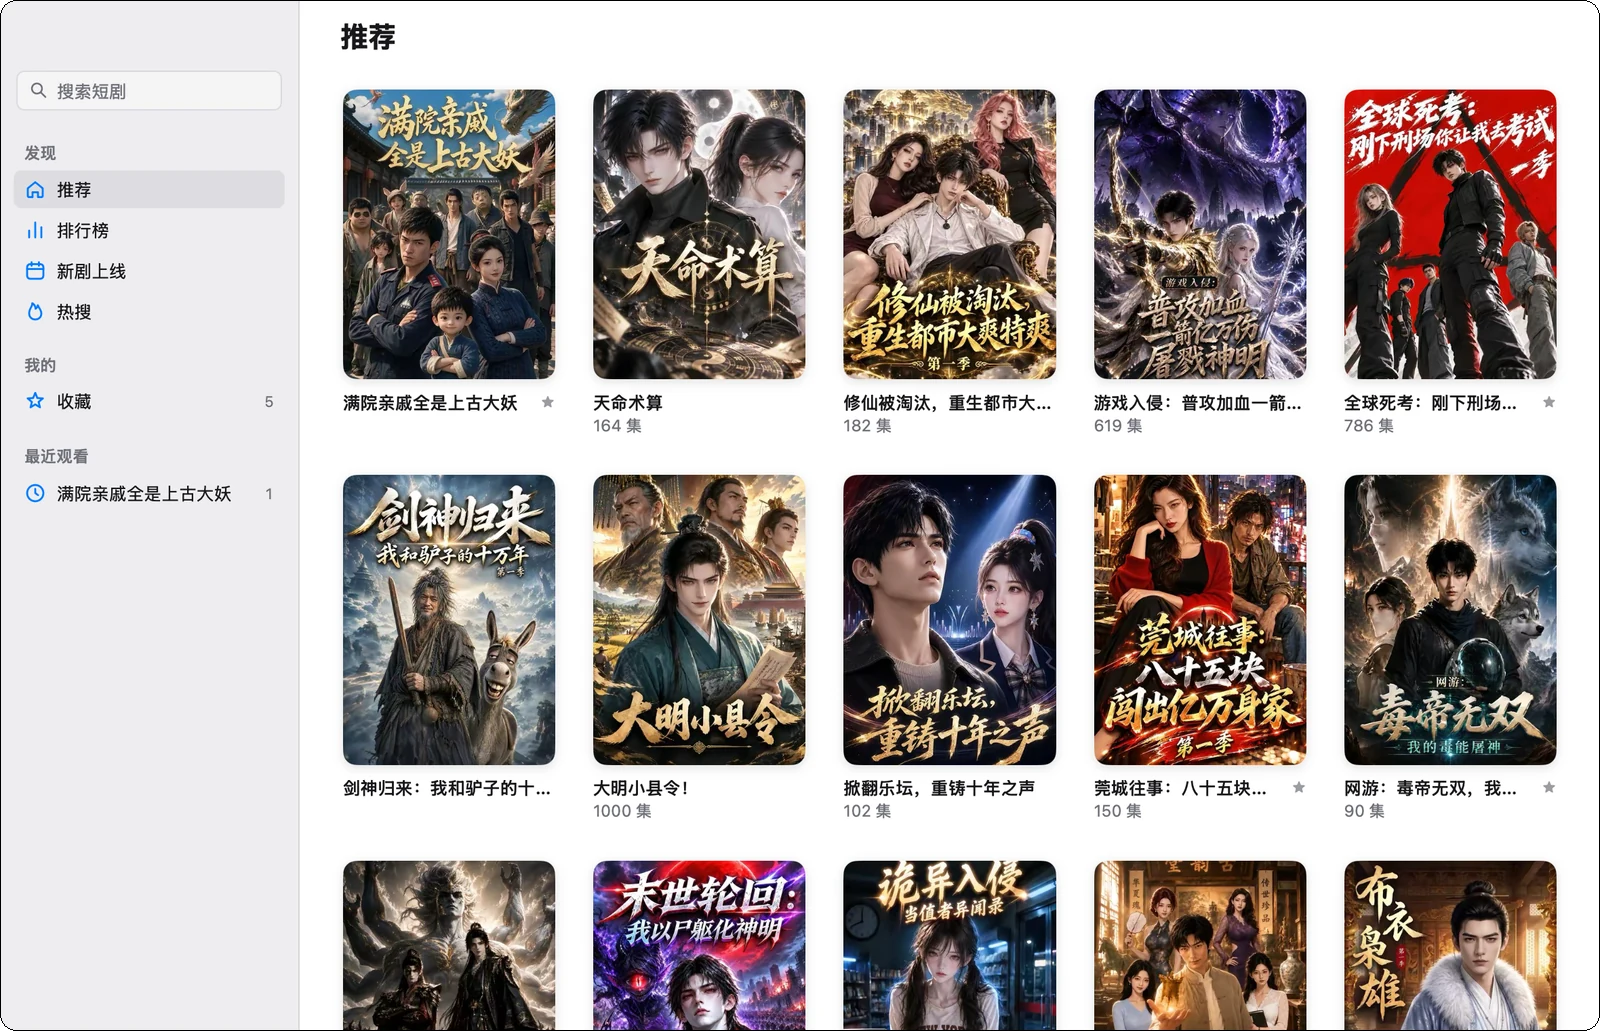
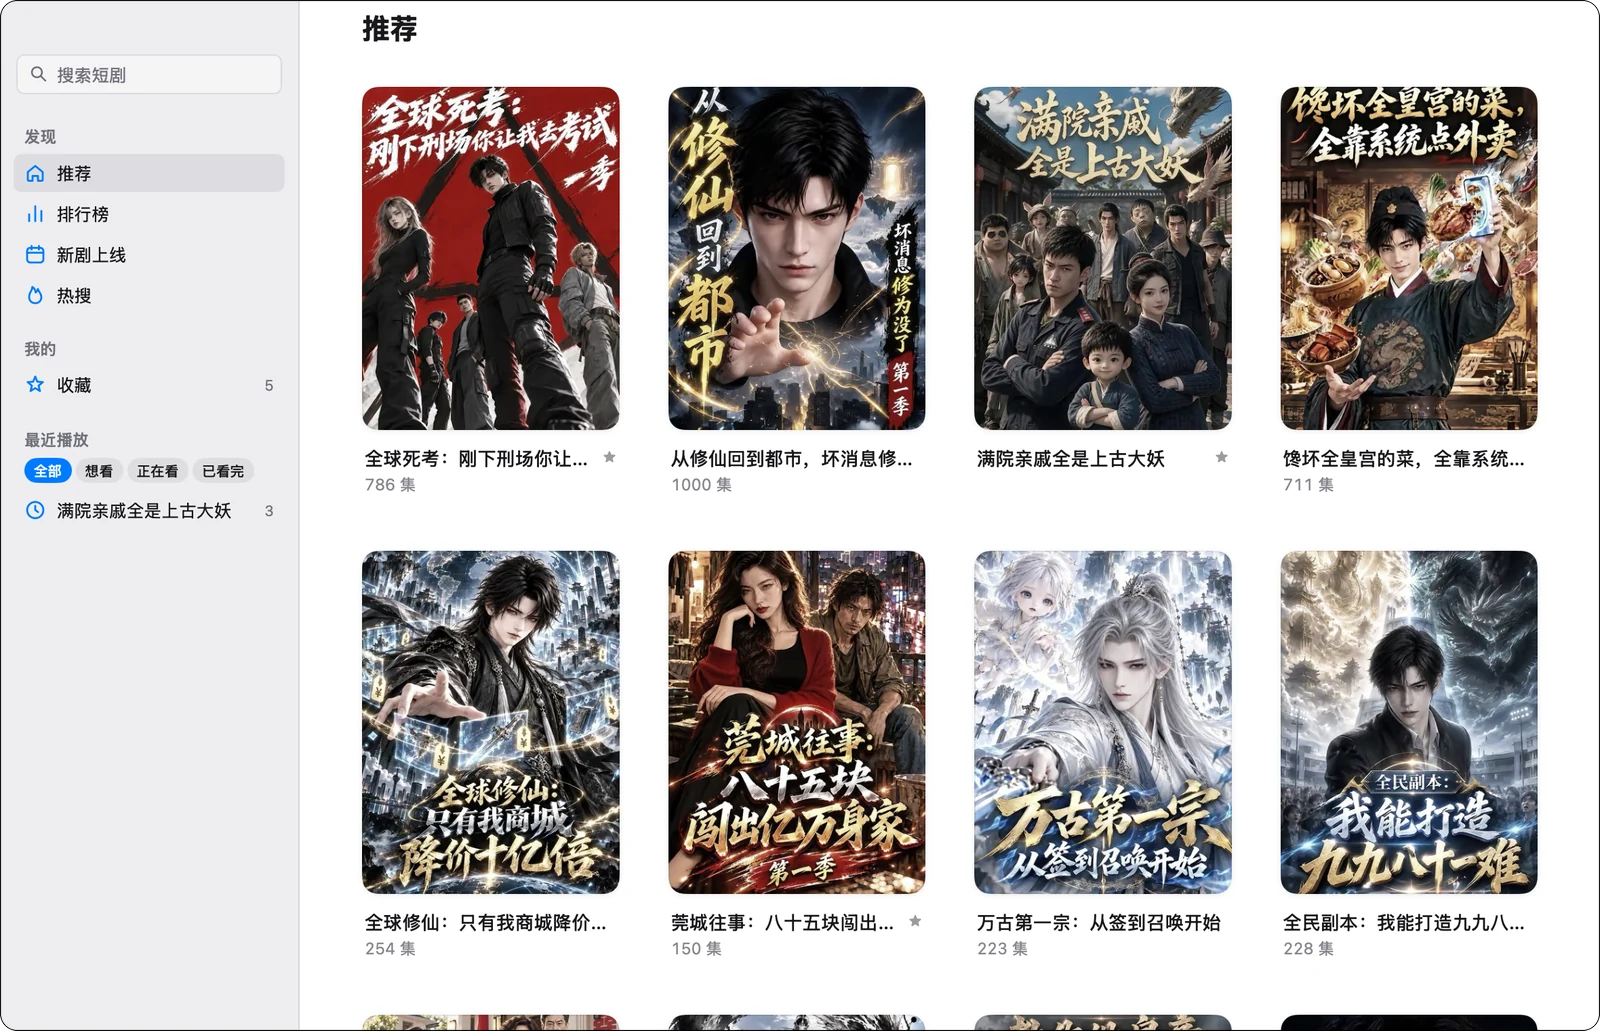
列表页：海报更大、留白更多，封面降饱和
- 海报最窄 176pt，间距、页边距和行距都加宽；默认窗口 4 列，宽屏 6 列，一屏不再挤满
- 封面平时盖一层半透明灰度副本，降低约四成饱和度；鼠标移上去恢复原色并轻轻浮起
- 标题改为 14pt 中等字重，副标题更淡；海报加一圈细描边
- 热搜榜的卡片改用和其他列表相同的尺寸
- 更新 README 截图

封面普遍颜色浓、构图满，一屏铺满时显得廉价，所以用更少、更大的卡片和更安静的颜色。

diff --git a/view.go b/view.go
@@ -14,10 +14,43 @@ import (
 )
 
 const (
-	gridPadX   = 22  // the grid's margin, outside its cells' own
-	cellPadX   = 8   // room on each side of a poster in its cell
-	posterMinW = 150 // the narrowest a cell gets
+	gridPadX   = 32  // the grid's margin, outside its cells' own
+	cellBorder = 2   // the clear border GridView keeps around each cell
+	cellPadX   = 12  // room on each side of a poster in its cell
+	posterMinW = 176 // the narrowest a poster gets
+	cellMinW   = posterMinW + 2*(cellBorder+cellPadX)
+	// posterInset is where the first column's posters start, which the
+	// page's title and controls line up with.
+	posterInset = gridPadX + cellBorder + cellPadX
+
+	// The room in a card above its poster, between the poster and the
+	// lines about it, and under those lines, which keeps the rows apart.
+	cardPadTop    = 6
+	cardTitleGap  = 12
+	cardPadBottom = 18
+	// coverMute is how much of a poster's color gives way to gray until
+	// the pointer comes: the covers are loud, and a wall of them more so.
+	coverMute = 0.4
 )
+
+// gridMetrics is how a grid of cards fits the page: how many columns, as
+// GridView counts them, and how high each row, so that every poster is 3:4.
+func (a *app) gridMetrics(c *ui.Context) (cols int, rowH float32) {
+	w, _ := c.Size()
+	inner := w - sidebarWidth*a.sideShown - 1 - 2*gridPadX
+	gap := c.Theme().Space(2)
+	cols = max(1, int((inner+gap)/(cellMinW+gap)))
+	cellW := (inner - float32(cols-1)*gap) / float32(cols)
+	posterW := cellW - (cellMinW - posterMinW)
+	return cols, posterW*4/3 + cardChrome
+}
+
+// cardChrome is the height of a card's cell besides its poster: the
+// border, the room around the poster and the two lines under it.
+const cardChrome = 2*cellBorder + cardPadTop + cardTitleGap + cardLines + cardPadBottom
+
+// cardLines is the height of a card's title and the line under it.
+const cardLines = 41
 
 func (a *app) view(c *ui.Context) {
 	t := c.Theme()
@@ -218,7 +251,7 @@ func (a *app) sectionItem(c *ui.Context, selected, id string, icon *ui.SVG, labe
 // beside it.
 func (a *app) header(c *ui.Context, title string, right func()) {
 	ui.Row(c).Height(titleBarHeight).Shrink(0).AlignItems(ui.Center).Gap(12).
-		Padding(0, gridPadX+cellPadX, 0, gridPadX+cellPadX).DragWindow().Children(func() {
+		Padding(0, posterInset).DragWindow().Children(func() {
 		ui.Text(c, title).FontSize(22).Bold().SingleLine()
 		ui.Spacer(c)
 		if right != nil {
@@ -232,12 +265,12 @@ func (a *app) header(c *ui.Context, title string, right func()) {
 func (a *app) gridPage(c *ui.Context, title string, f *feed, right, controls func(), controlsH float32, empty string) {
 	top := float32(titleBarHeight) + controlsH
 	ui.Box(c).Fill().Children(func() {
-		a.cardGrid(c, f, top+4, empty)
+		a.cardGrid(c, f, top+12, empty)
 		ui.Box(c).Absolute().Top(0).Left(0).Right(0).Height(top + 12).PassThrough().Material(glass.ScrollEdge{})
 		ui.Column(c).Absolute().Top(0).Left(0).Right(0).Children(func() {
 			a.header(c, title, right)
 			if controls != nil {
-				ui.Row(c).Height(controlsH).AlignItems(ui.Start).Padding(0, gridPadX+cellPadX-2).Children(controls)
+				ui.Row(c).Height(controlsH).AlignItems(ui.Start).Padding(0, posterInset).Children(controls)
 			}
 		})
 	})
@@ -248,21 +281,14 @@ func (a *app) cardGrid(c *ui.Context, f *feed, top float32, empty string) {
 		a.feedState(c, f, top, empty)
 		return
 	}
-	// The rows' height: as GridView lays the cells out, a poster of 3:4 in
-	// each, and its two lines.
-	w, _ := c.Size()
-	inner := w - sidebarWidth*a.sideShown - 1 - 2*gridPadX
-	gap := c.Theme().Space(2)
-	cols := max(1, int((inner+gap)/(posterMinW+gap)))
-	itemW := (inner - float32(cols-1)*gap) / float32(cols)
-	rowH := (itemW-2*cellPadX)*4/3 + 62
+	cols, rowH := a.gridMetrics(c)
 	n := len(f.cards)
-	ui.GridView(c, &f.grid, n, posterMinW, rowH, func(i int) {
+	ui.GridView(c, &f.grid, n, cellMinW, rowH, func(i int) {
 		a.card(c, f.cards[i], f.showWatch)
 		if i >= n-cols*2 && f.more {
 			a.loadMore(f)
 		}
-	}).Fill().Padding(top, gridPadX, 24, gridPadX).ScrollbarInsets(top, 0, 0, 0)
+	}).Fill().Padding(top, gridPadX, 32, gridPadX).ScrollbarInsets(top, 0, 0, 0)
 }
 
 // feedState is what a feed with no series yet shows.
@@ -308,24 +334,24 @@ func (a *app) card(c *ui.Context, k card, showWatch bool) {
 		}
 	})
 	b.Children(func() {
-		ui.Column(c).Fill().Padding(4, cellPadX, 14, cellPadX).Gap(9).Children(func() {
-			poster := a.poster(c, k.Cover, 10, hover).Grow(1).MinHeight(0)
+		ui.Column(c).Fill().Padding(cardPadTop, cellPadX, cardPadBottom, cellPadX).Gap(cardTitleGap).Children(func() {
+			poster := a.poster(c, k.Cover, 12, hover).Grow(1).MinHeight(0)
 			if showWatch {
 				if label, fraction, bar, ok := a.favoriteProgress(k); ok {
 					poster.Children(func() { a.watchOverlay(c, label, fraction, bar) })
 				}
 			}
-			ui.Column(c).Gap(2).Children(func() {
+			ui.Column(c).Height(cardLines).Shrink(0).Gap(4).Padding(0, 2).Children(func() {
 				ui.Row(c).Gap(6).AlignItems(ui.Center).Children(func() {
 					if k.Rank > 0 {
-						ui.Textf(c, "%d", k.Rank).FontSize(13).Bold().TextColor(t.TextMuted).FontFeatures("tnum")
+						ui.Textf(c, "%d", k.Rank).FontSize(14).FontWeight(600).TextColor(t.TextMuted).FontFeatures("tnum")
 					}
-					ui.Text(c, k.Title).FontSize(13).FontWeight(600).SingleLine().Grow(1).MinWidth(0)
+					ui.Text(c, k.Title).FontSize(14).FontWeight(500).SingleLine().Grow(1).MinWidth(0)
 					if saved {
 						ui.Icon(c, iconStarOn).Size(11, 11).Shrink(0).TextColor(t.TextMuted.Alpha(0.7)).Tooltip("已收藏")
 					}
 				})
-				ui.Text(c, k.Sub).FontSize(12).TextColor(t.TextMuted).SingleLine()
+				ui.Text(c, k.Sub).FontSize(12).TextColor(t.TextMuted.Alpha(0.85)).SingleLine().FontFeatures("tnum")
 			})
 		})
 	})
@@ -426,18 +452,28 @@ func (a *app) watchOverlay(c *ui.Context, label string, fraction float64, bar bo
 	}
 }
 
-// poster is a cover in a rounded frame, gray until it loads, lifting a
-// little under the pointer.
+// poster is a cover in a rounded frame, gray until it loads. Its colors are
+// muted until the pointer comes, when it lifts a little in full color.
 func (a *app) poster(c *ui.Context, cover string, radius float32, hover bool) ui.Element {
 	t := c.Theme()
 	p := ui.Box(c).Radius(radius).Clip().Background(placeholder(t))
-	lift := p.Animate("lift", b2f(hover), 180*time.Millisecond)
-	s := 1 + 0.025*lift
-	p.Scale(s, s).Shadow(0, 2+5*lift, 8+14*lift, 0, ui.RGBA(0, 0, 0, 0.12+0.12*lift))
+	lift := p.Animate("lift", b2f(hover), 220*time.Millisecond)
+	s := 1 + 0.02*lift
+	p.Scale(s, s).Shadow(0, 1+9*lift, 4+20*lift, 0, ui.RGBA(0, 0, 0, 0.08+0.14*lift))
 	p.Children(func() {
 		if bmp, alpha := a.covers.get(c, cover); bmp != nil {
 			ui.Image(c, bmp).Fill().Fit(ui.Cover).Opacity(alpha)
+			// A gray copy over the cover, partly see-through, takes some
+			// of its color out: MyGo draws images in color or in gray.
+			if mute := coverMute * (1 - lift); mute > 0.01 {
+				ui.Image(c, bmp).Absolute().Top(0).Left(0).Right(0).Bottom(0).Fit(ui.Cover).
+					Grayscale().Opacity(alpha * mute)
+			}
 		}
+		// A hairline inside the edge, which keeps dark covers from
+		// bleeding into a dark page and light ones into a light page.
+		ui.Box(c).Absolute().Top(0).Left(0).Right(0).Bottom(0).Radius(radius).
+			Border(1, t.Text.Alpha(0.08)).PassThrough()
 	})
 	return p
 }
@@ -631,22 +667,34 @@ func (a *app) hotPage(c *ui.Context) {
 		case a.hot == nil:
 			ui.Column(c).Fill().Center().Children(func() { ui.Spinner(c).FontSize(20).Label("正在加载") })
 		default:
-			ui.Scroll(c).Fill().Padding(top, gridPadX, 28, gridPadX).ScrollbarInsets(top, 0, 0, 0).Children(func() {
+			// The boards' cards are as large as the other pages' grids.
+			cols, rowH := a.gridMetrics(c)
+			gap := t.Space(2)
+			ui.Scroll(c).Fill().Padding(top, gridPadX, 32, gridPadX).ScrollbarInsets(top, 0, 0, 0).Children(func() {
 				for _, b := range a.hot.Boards {
 					if len(b.Items) == 0 {
 						continue
 					}
-					ui.Text(c, b.Name).FontSize(17).Bold().Margin(14, cellPadX, 10, cellPadX)
-					ui.Row(c).Wrap().Children(func() {
-						for _, it := range b.Items {
-							k := card{ID: it.SeriesID, Title: it.Title, Cover: it.CoverURL, Sub: it.SearchScore,
-								Rank: it.Position, Episodes: it.EpisodeCount}
-							if k.Sub == "" {
-								k.Sub = it.Heat
+					ui.Text(c, b.Name).FontSize(17).Bold().Margin(20, cellBorder+cellPadX, 6, cellBorder+cellPadX)
+					for r := 0; r < len(b.Items); r += cols {
+						ui.Row(c).Gap(gap).PaddingY(gap / 2).Children(func() {
+							for i := r; i < r+cols; i++ {
+								if i >= len(b.Items) {
+									// Empty places keep the last row's cards as wide as the others.
+									ui.Box(c).Grow(1).Basis(0).MinWidth(0)
+									continue
+								}
+								it := b.Items[i]
+								k := card{ID: it.SeriesID, Title: it.Title, Cover: it.CoverURL, Sub: it.SearchScore,
+									Rank: it.Position, Episodes: it.EpisodeCount}
+								if k.Sub == "" {
+									k.Sub = it.Heat
+								}
+								ui.Box(c.Key(b.Name + it.SeriesID)).Grow(1).Basis(0).MinWidth(0).Height(rowH).
+									Padding(cellBorder).Children(func() { a.card(c, k, false) })
 							}
-							ui.Box(c.Key(b.Name+it.SeriesID)).Size(166, (166-2*cellPadX)*4/3+62).Children(func() { a.card(c, k, false) })
-						}
-					})
+						})
+					}
 				}
 			})
 		}

diff --git a/CHANGELOG.md b/CHANGELOG.md
@@ -4,6 +4,10 @@
 
 ## [未发布]
 
+### 变更
+
+- 列表页重新排版：海报更大，间距和页边距更宽，一屏不再挤满；封面平时略降饱和度，鼠标移上去恢复原色并轻轻浮起。热搜榜的卡片和其他列表一样大。
+
 ## [0.3.0] - 2026-11-06
 
 ### 新增
